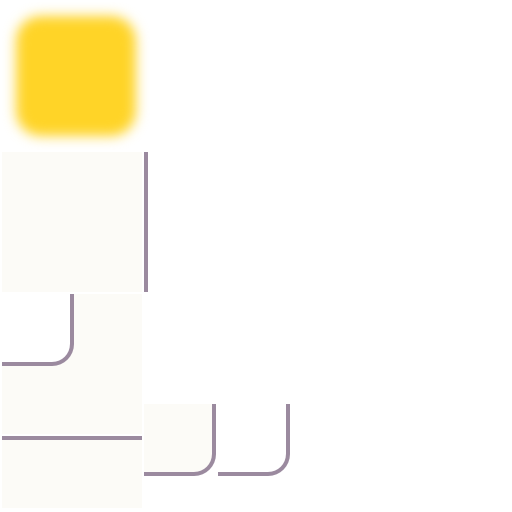
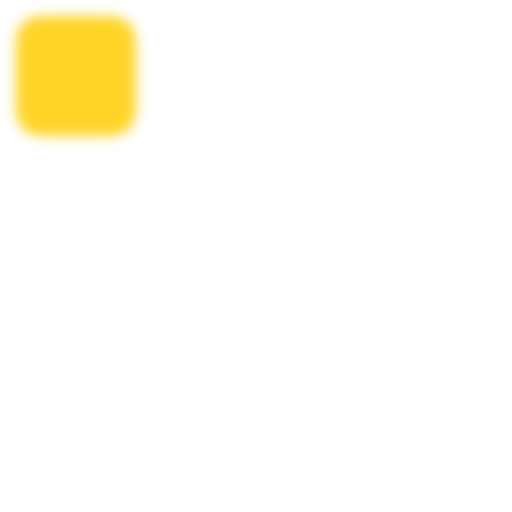
tintable puzzle area assets

diff --git a/PttrnFlow/PttrnFlow/Layers/PuzzleLayer.m b/PttrnFlow/PttrnFlow/Layers/PuzzleLayer.m
@@ -175,9 +175,11 @@ static CGFloat kPuzzleBoundsMargin = 10.0f;
 
 - (void)createBorderWithAreaCells:(NSArray *)areaCells
 {
+    static NSString *padBorderStraitEdge = @"pad_border_strait_edge.png";
     static NSString *padBorderStraitRightFill = @"pad_border_strait_right_fill.png";
-    static NSString *padBorderCornerInside = @"pad_border_corner_inside.png";
-    static NSString *padBorderCornerOutside = @"pad_border_corner_outside.png";
+    static NSString *padBorderCornerEdge = @"pad_border_corner_edge.png";
+    static NSString *padBorderCornerInsideFill = @"pad_border_corner_inside_fill.png";
+    static NSString *padBorderCornerOutsideFill = @"pad_border_corner_outside_fill.png";
 
     for (NSInteger x = -1; x <= self.maxCoord.x; x++) {
         for (NSInteger y = -1; y <= self.maxCoord.y; y++) {
@@ -208,85 +210,125 @@ static CGFloat kPuzzleBoundsMargin = 10.0f;
             }
             
             CCSprite *border1;
+            CCSprite *fill1;
             CCSprite *border2;
+            CCSprite *fill2;
             
             // strait edge vertical
             if (hasBottomLeft && hasTopLeft && !hasBottomRight && !hasTopRight) {
-                border1 = [CCSprite spriteWithSpriteFrameName:padBorderStraitRightFill];
-                border1.scale *= -1;
+                border1 = [CCSprite spriteWithSpriteFrameName:padBorderStraitEdge];
+                fill1 = [CCSprite spriteWithSpriteFrameName:padBorderStraitRightFill];
+                fill1.scale *= -1;
             }
             else if (!hasBottomLeft && !hasTopLeft && hasBottomRight && hasTopRight) {
-                border1 = [CCSprite spriteWithSpriteFrameName:padBorderStraitRightFill];
+                border1 = [CCSprite spriteWithSpriteFrameName:padBorderStraitEdge];
+                fill1 = [CCSprite spriteWithSpriteFrameName:padBorderStraitRightFill];
             }
 
             // strait edge horizontal
             else if (hasTopLeft && hasTopRight && !hasBottomLeft && !hasBottomRight) {
-                border1 = [CCSprite spriteWithSpriteFrameName:padBorderStraitRightFill];
+                border1 = [CCSprite spriteWithSpriteFrameName:padBorderStraitEdge];
                 border1.rotation = -90.0f;
+                fill1 = [CCSprite spriteWithSpriteFrameName:padBorderStraitRightFill];
+                fill1.rotation = -90.0f;
             }
             else if (!hasTopLeft && !hasTopRight && hasBottomLeft && hasBottomRight) {
-                border1 = [CCSprite spriteWithSpriteFrameName:padBorderStraitRightFill];
+                border1 = [CCSprite spriteWithSpriteFrameName:padBorderStraitEdge];
                 border1.rotation = 90.0f;
+                fill1 = [CCSprite spriteWithSpriteFrameName:padBorderStraitRightFill];
+                fill1.rotation = 90.0f;
             }
 
             // top left only
             else if (hasTopLeft && !hasTopRight && !hasBottomLeft && !hasBottomRight) {
-                border1 = [CCSprite spriteWithSpriteFrameName:padBorderCornerInside];
+                border1 = [CCSprite spriteWithSpriteFrameName:padBorderCornerEdge];
+                fill1 = [CCSprite spriteWithSpriteFrameName:padBorderCornerInsideFill];
             }
             else if (!hasTopLeft && hasTopRight && hasBottomLeft && hasBottomRight) {
-                border1 = [CCSprite spriteWithSpriteFrameName:padBorderCornerOutside];
+                border1 = [CCSprite spriteWithSpriteFrameName:padBorderCornerEdge];
+                fill1 = [CCSprite spriteWithSpriteFrameName:padBorderCornerOutsideFill];
             }
             
             // top right only
             else if (hasTopRight && !hasTopLeft && !hasBottomLeft && !hasBottomRight) {
-                border1 = [CCSprite spriteWithSpriteFrameName:padBorderCornerInside];
+                border1 = [CCSprite spriteWithSpriteFrameName:padBorderCornerEdge];
                 border1.rotation = 90.0f;
+                fill1 = [CCSprite spriteWithSpriteFrameName:padBorderCornerInsideFill];
+                fill1.rotation = 90.0f;
             }
             else if (!hasTopRight && hasTopLeft && hasBottomLeft && hasBottomRight) {
-                border1 = [CCSprite spriteWithSpriteFrameName:padBorderCornerOutside];
+                border1 = [CCSprite spriteWithSpriteFrameName:padBorderCornerEdge];
                 border1.rotation = 90.0f;
+                fill1 = [CCSprite spriteWithSpriteFrameName:padBorderCornerOutsideFill];
+                fill1.rotation = 90.0f;
             }
             
             // bottom left only
             else if (hasBottomLeft && !hasBottomRight && !hasTopLeft && !hasTopRight) {
-                border1 = [CCSprite spriteWithSpriteFrameName:padBorderCornerInside];
+                border1 = [CCSprite spriteWithSpriteFrameName:padBorderCornerEdge];
                 border1.rotation = -90.0f;
+                fill1 = [CCSprite spriteWithSpriteFrameName:padBorderCornerInsideFill];
+                fill1.rotation = -90.0f;
             }
             else if (!hasBottomLeft && hasBottomRight && hasTopLeft && hasTopRight) {
-                border1 = [CCSprite spriteWithSpriteFrameName:padBorderCornerOutside];
+                border1 = [CCSprite spriteWithSpriteFrameName:padBorderCornerEdge];
                 border1.rotation = -90.0f;
+                fill1 = [CCSprite spriteWithSpriteFrameName:padBorderCornerOutsideFill];
+                fill1.rotation = -90.0f;
             }
             
             // bottom right only
             else if (hasBottomRight && !hasBottomLeft && !hasTopLeft && !hasTopRight) {
-                border1 = [CCSprite spriteWithSpriteFrameName:padBorderCornerInside];
+                border1 = [CCSprite spriteWithSpriteFrameName:padBorderCornerEdge];
                 border1.rotation = 180.0f;
+                fill1 = [CCSprite spriteWithSpriteFrameName:padBorderCornerInsideFill];
+                fill1.rotation = 180.0f;
             }
             else if (!hasBottomRight && hasBottomLeft && hasTopLeft && hasTopRight) {
-                border1 = [CCSprite spriteWithSpriteFrameName:padBorderCornerOutside];
+                border1 = [CCSprite spriteWithSpriteFrameName:padBorderCornerEdge];
                 border1.rotation = 180.0f;
+                fill1 = [CCSprite spriteWithSpriteFrameName:padBorderCornerOutsideFill];
+                fill1.rotation = 180.0f;
             }
 
             // both bottom left and top right corner
             else if (hasBottomLeft && hasTopRight && !hasBottomRight && !hasTopLeft) {
-                border1 = [CCSprite spriteWithSpriteFrameName:padBorderCornerInside];
+                border1 = [CCSprite spriteWithSpriteFrameName:padBorderCornerEdge];
                 border1.rotation = -90.0f;
-                border2 = [CCSprite spriteWithSpriteFrameName:padBorderCornerInside];
+                fill1 = [CCSprite spriteWithSpriteFrameName:padBorderCornerInsideFill];
+                fill1.rotation = -90.0f;
+                
+                border2 = [CCSprite spriteWithSpriteFrameName:padBorderCornerEdge];
                 border2.rotation = 90.0f;
+                fill2 = [CCSprite spriteWithSpriteFrameName:padBorderCornerInsideFill];
+                fill2.rotation = 90.0f;
             }
             
-            // both bottom right and top left corner
+            // both bottom right and top left cornerh
             else if (hasBottomRight && hasTopLeft && !hasBottomLeft && !hasTopRight) {
-                border1 = [CCSprite spriteWithSpriteFrameName:padBorderCornerInside];
+                border1 = [CCSprite spriteWithSpriteFrameName:padBorderCornerEdge];
                 border1.rotation = 180.0f;
-                border2 = [CCSprite spriteWithSpriteFrameName:padBorderCornerInside];
+                fill1 = [CCSprite spriteWithSpriteFrameName:padBorderCornerInsideFill];
+                fill1.rotation = 180.0f;
+                
+                border2 = [CCSprite spriteWithSpriteFrameName:padBorderCornerEdge];
+                fill2 = [CCSprite spriteWithSpriteFrameName:padBorderCornerInsideFill];
             }
             
-            // position and add border(s)
+            fill1.color = [ColorUtils cream];
+            fill1.position = [[[cell stepInDirection:kDirectionRight] stepInDirection:kDirectionUp] relativePosition];
+            [self.audioObjectsBatchNode addChild:fill1 z:ZOrderAudioBatchPanelBorder];
+            
+            border1.color = [ColorUtils dimPurple];
             border1.position = [[[cell stepInDirection:kDirectionRight] stepInDirection:kDirectionUp] relativePosition];
             [self.audioObjectsBatchNode addChild:border1 z:ZOrderAudioBatchPanelBorder];
             
             if (border2 != nil) {
+                fill2.color = [ColorUtils cream];
+                fill2.position = fill1.position;
+                [self.audioObjectsBatchNode addChild:fill2 z:ZOrderAudioBatchPanelBorder];
+                
+                border2.color = [ColorUtils dimPurple];
                 border2.position = border1.position;
                 [self.audioObjectsBatchNode addChild:border2 z:ZOrderAudioBatchPanelBorder];
             }

diff --git a/PttrnFlow/PttrnFlow/Tick Responders/AudioPad.m b/PttrnFlow/PttrnFlow/Tick Responders/AudioPad.m
@@ -13,6 +13,7 @@
 
 @interface AudioPad ()
 
+@property (weak, nonatomic) CCSprite *boxSprite;
 @property (strong, nonatomic) CCSprite *highlightSprite;
 
 @end
@@ -35,6 +36,7 @@
         
         NSString *boxFrameName = @"audio_box.png";
         CCSprite *boxSprite = [CCSprite spriteWithSpriteFrameName:boxFrameName];
+        self.boxSprite = boxSprite;
         boxSprite.position = ccp(self.contentSize.width / 2, self.contentSize.height / 2);
         [self addChild:boxSprite];
         boxSprite.color = [ColorUtils defaultPurple];
@@ -53,8 +55,18 @@
 
 - (PFLEvent *)audioHit:(CGFloat)beatDuration
 {
-    CCFadeOut *fadeOut = [CCFadeOut actionWithDuration:beatDuration];
-    [self.highlightSprite runAction:[CCEaseSineOut actionWithAction:fadeOut]];
+    self.highlightSprite.scale = 1.0f;
+    CCFadeOut *highlightFadeOut = [CCFadeOut actionWithDuration:beatDuration * 1.5f];
+    CCScaleTo *highlightScaleUp = [CCScaleTo actionWithDuration:beatDuration * 1.5f scale:1.5f];
+    [self.highlightSprite runAction:[CCEaseSineOut actionWithAction:highlightFadeOut]];
+    [self.highlightSprite runAction:[CCEaseSineOut actionWithAction:highlightScaleUp]];
+    
+    CCScaleTo *padScaleUp = [CCScaleTo actionWithDuration:beatDuration / 2.0f scale:1.1f];
+    CCEaseSineIn *padEaseUp = [CCEaseSineIn actionWithAction:padScaleUp];
+    CCScaleTo *padScaleDown = [CCScaleTo actionWithDuration:beatDuration / 2.0f scale:1.0f];
+    CCEaseSineOut *padEaseDown = [CCEaseSineOut actionWithAction:padScaleDown];
+    CCSequence *seq = [CCSequence actionWithArray:@[padEaseUp, padEaseDown]];
+    [self.boxSprite runAction:seq];
     
     return nil;
 }

diff --git a/PttrnFlow/PttrnFlow/Utils/ColorUtils.m b/PttrnFlow/PttrnFlow/Utils/ColorUtils.m
@@ -24,7 +24,8 @@
 
 + (ccColor3B)cream
 {
-    return ccc3(252, 251, 247);
+//    return ccc3(252, 251, 247); // original
+    return ccc3(232, 231, 227);
 }
 
 + (ccColor3B)activeYellow
